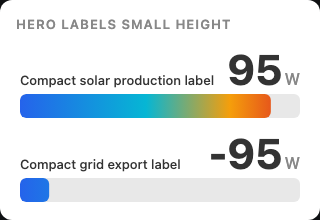
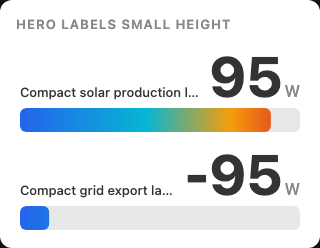
Refactor Hero layout sizing and value fitting for stable responsive behavior

diff --git a/src/card/SensorBarCard.js b/src/card/SensorBarCard.js
@@ -180,6 +180,7 @@ export class SensorBarCard extends HTMLElement {
     this._rendered = false;
     this._resizeObserver = null;
     this._densityPassScheduled = false;
+    this._densityPassDirty = false;
     this._densityPassFrame = null;
     this._densityPassRetries = 0;
     this._ensureBaseDom();
@@ -1588,33 +1589,33 @@ _getAboveTargetLayerGeometry(targetPct = null) {
           justify-self: end;
           overflow: hidden;
           font-size: 56px;
-          font-size: clamp(var(--sbcp-hero-min-value-size), calc(var(--sbcp-row-height) + 18px), 56px);
           font-weight: 700;
           color: var(--primary-text-color, #333);
           font-variant-numeric: tabular-nums;
           line-height: 0.95;
           text-align: right;
         }
+
         .hero-line[data-hero-density="compact"] .hero-value {
-          font-size: clamp(var(--sbcp-hero-min-value-size), calc(var(--sbcp-row-height) + 12px), 48px);
+          font-size: 50px;
         }
         .hero-line[data-hero-density="tight"] .hero-value {
-          font-size: clamp(var(--sbcp-hero-min-value-size), calc(var(--sbcp-row-height) + 8px), 40px);
+          font-size: 44px;
         }
         .hero-line[data-hero-density="dense"] .hero-value {
-          font-size: clamp(var(--sbcp-hero-min-value-size), calc(var(--sbcp-row-height) + 4px), 32px);
+          font-size: 36px;
         }
         .hero-line[data-hero-density="compressed"] .hero-value {
-          font-size: clamp(var(--sbcp-hero-min-value-size), calc(var(--sbcp-row-height) + 2px), 24px);
+          font-size: 28px;
         }
         .hero-line[data-hero-density="xs"] .hero-value {
-          font-size: clamp(var(--sbcp-hero-min-value-size), calc(var(--sbcp-row-height) - 10px), 16px);
+          font-size: 20px;
         }
         .hero-line[data-hero-value-fit="tight"] .hero-value {
-          font-size: clamp(var(--sbcp-hero-min-value-size), calc(var(--sbcp-row-height) - 4px), 22px);
+          font-size: 16px;
         }
         .hero-line[data-hero-value-fit="minimum"] .hero-value {
-          font-size: clamp(9px, calc(var(--sbcp-row-height) - 14px), 15px);
+          font-size: 11px;
         }
         .hero-line[data-hero-value-fit="hidden"] .hero-value {
           display: none;
@@ -1889,6 +1890,18 @@ _getAboveTargetLayerGeometry(targetPct = null) {
     return Number.isFinite(width) && width >= minWidth;
   }
 
+  _getHeroLabelReservedWidth(headerEl, labelEl, labelHidden) {
+    if (labelHidden || !headerEl || !labelEl) return 0;
+
+    const headerWidth = Math.floor(headerEl.getBoundingClientRect?.().width ?? 0);
+    const naturalLabelWidth = Math.ceil(labelEl.scrollWidth || labelEl.getBoundingClientRect?.().width || 0);
+    if (!this._isReliableWidth(headerWidth, 8) || !Number.isFinite(naturalLabelWidth) || naturalLabelWidth <= 0) {
+      return 0;
+    }
+
+    return Math.min(naturalLabelWidth, headerWidth * 0.45);
+  }
+
   _classifyCompactTier(width, currentTier = 'normal') {
     if (!this._isReliableWidth(width)) return currentTier || 'normal';
     if (width < 180) return 'compressed';
@@ -1917,11 +1930,17 @@ _getAboveTargetLayerGeometry(targetPct = null) {
   }
 
   _schedulePostLayoutDensityPass() {
-    if (this._densityPassScheduled || !this.isConnected) return;
+    if (!this.isConnected) return;
+    if (this._densityPassScheduled) {
+      this._densityPassDirty = true;
+      return;
+    }
     this._densityPassScheduled = true;
     this._densityPassFrame = requestAnimationFrame(() => {
       this._densityPassScheduled = false;
       this._densityPassFrame = null;
+      const runAgain = this._densityPassDirty;
+      this._densityPassDirty = false;
       if (!this.isConnected) return;
 
       const surface = this.shadowRoot?.querySelector('ha-card');
@@ -1937,6 +1956,10 @@ _getAboveTargetLayerGeometry(targetPct = null) {
       this._densityPassRetries = 0;
       this._applyCompactTier();
       this._runPostLayoutPasses();
+
+      if (runAgain) {
+        this._schedulePostLayoutDensityPass();
+      }
     });
   }
 
@@ -2077,14 +2100,17 @@ _getAboveTargetLayerGeometry(targetPct = null) {
     this.shadowRoot.querySelectorAll('.above-line, .hero-line').forEach(aboveLine => {
       const label = aboveLine.querySelector('.above-bar-label, .hero-header');
       if (!label) return;
-      const width = label.getBoundingClientRect().width;
+      const isHeroLine = aboveLine.classList.contains('hero-line');
+      const width = isHeroLine
+        ? this._getHeroDensityWidth(aboveLine)
+        : label.getBoundingClientRect().width;
       let density = 'normal';
       if (width < 90) density = 'xs';
       else if (width < 110) density = 'compressed';
       else if (width < 150) density = 'dense';
       else if (width < 210) density = 'tight';
       else if (width < 280) density = 'compact';
-      if (aboveLine.classList.contains('hero-line')) {
+      if (isHeroLine) {
         aboveLine.dataset.heroDensity = density;
         label.dataset.hideName = density === 'dense' || density === 'compressed' || density === 'xs' ? 'true' : 'false';
         aboveLine.dataset.hideHeroIcon = density === 'compressed' || density === 'xs' ? 'true' : 'false';
@@ -2093,6 +2119,27 @@ _getAboveTargetLayerGeometry(targetPct = null) {
       aboveLine.dataset.aboveDensity = density;
       label.dataset.hideName = density === 'dense' || density === 'compressed' ? 'true' : 'false';
     });
+  }
+
+  _getHeroDensityWidth(heroLine) {
+    const row = heroLine?.closest?.('.row');
+    const rowStack = heroLine?.closest?.('.row-stack');
+    const mainLine = rowStack?.querySelector?.('.main-line.hero-mode');
+    const barWrap = mainLine?.querySelector?.('.bar-wrap');
+
+    const candidates = [
+      row?.getBoundingClientRect?.().width,
+      rowStack?.getBoundingClientRect?.().width,
+      mainLine?.getBoundingClientRect?.().width,
+      barWrap?.getBoundingClientRect?.().width,
+      heroLine?.getBoundingClientRect?.().width,
+    ];
+
+    for (const width of candidates) {
+      if (this._isReliableWidth(width, 8)) return width;
+    }
+
+    return 0;
   }
 
   _measureHeroValueWidth(heroLine, valueEl, valueFit = 'normal', hideUnit = false) {
@@ -2149,9 +2196,7 @@ _getAboveTargetLayerGeometry(targetPct = null) {
       }
 
       const labelHidden = headerEl.dataset.hideName === 'true' || headerEl.dataset.priorityHideName === 'true';
-      const labelWidth = !labelHidden && labelEl
-        ? Math.ceil(labelEl.getBoundingClientRect?.().width ?? 0)
-        : 0;
+      const labelWidth = this._getHeroLabelReservedWidth(headerEl, labelEl, labelHidden);
       const gap = !labelHidden && labelEl ? this._getNumericStyleValue(headerEl, 'column-gap', 0) : 0;
       const availableWidth = Math.max(0, headerWidth - labelWidth - gap - 4);
 